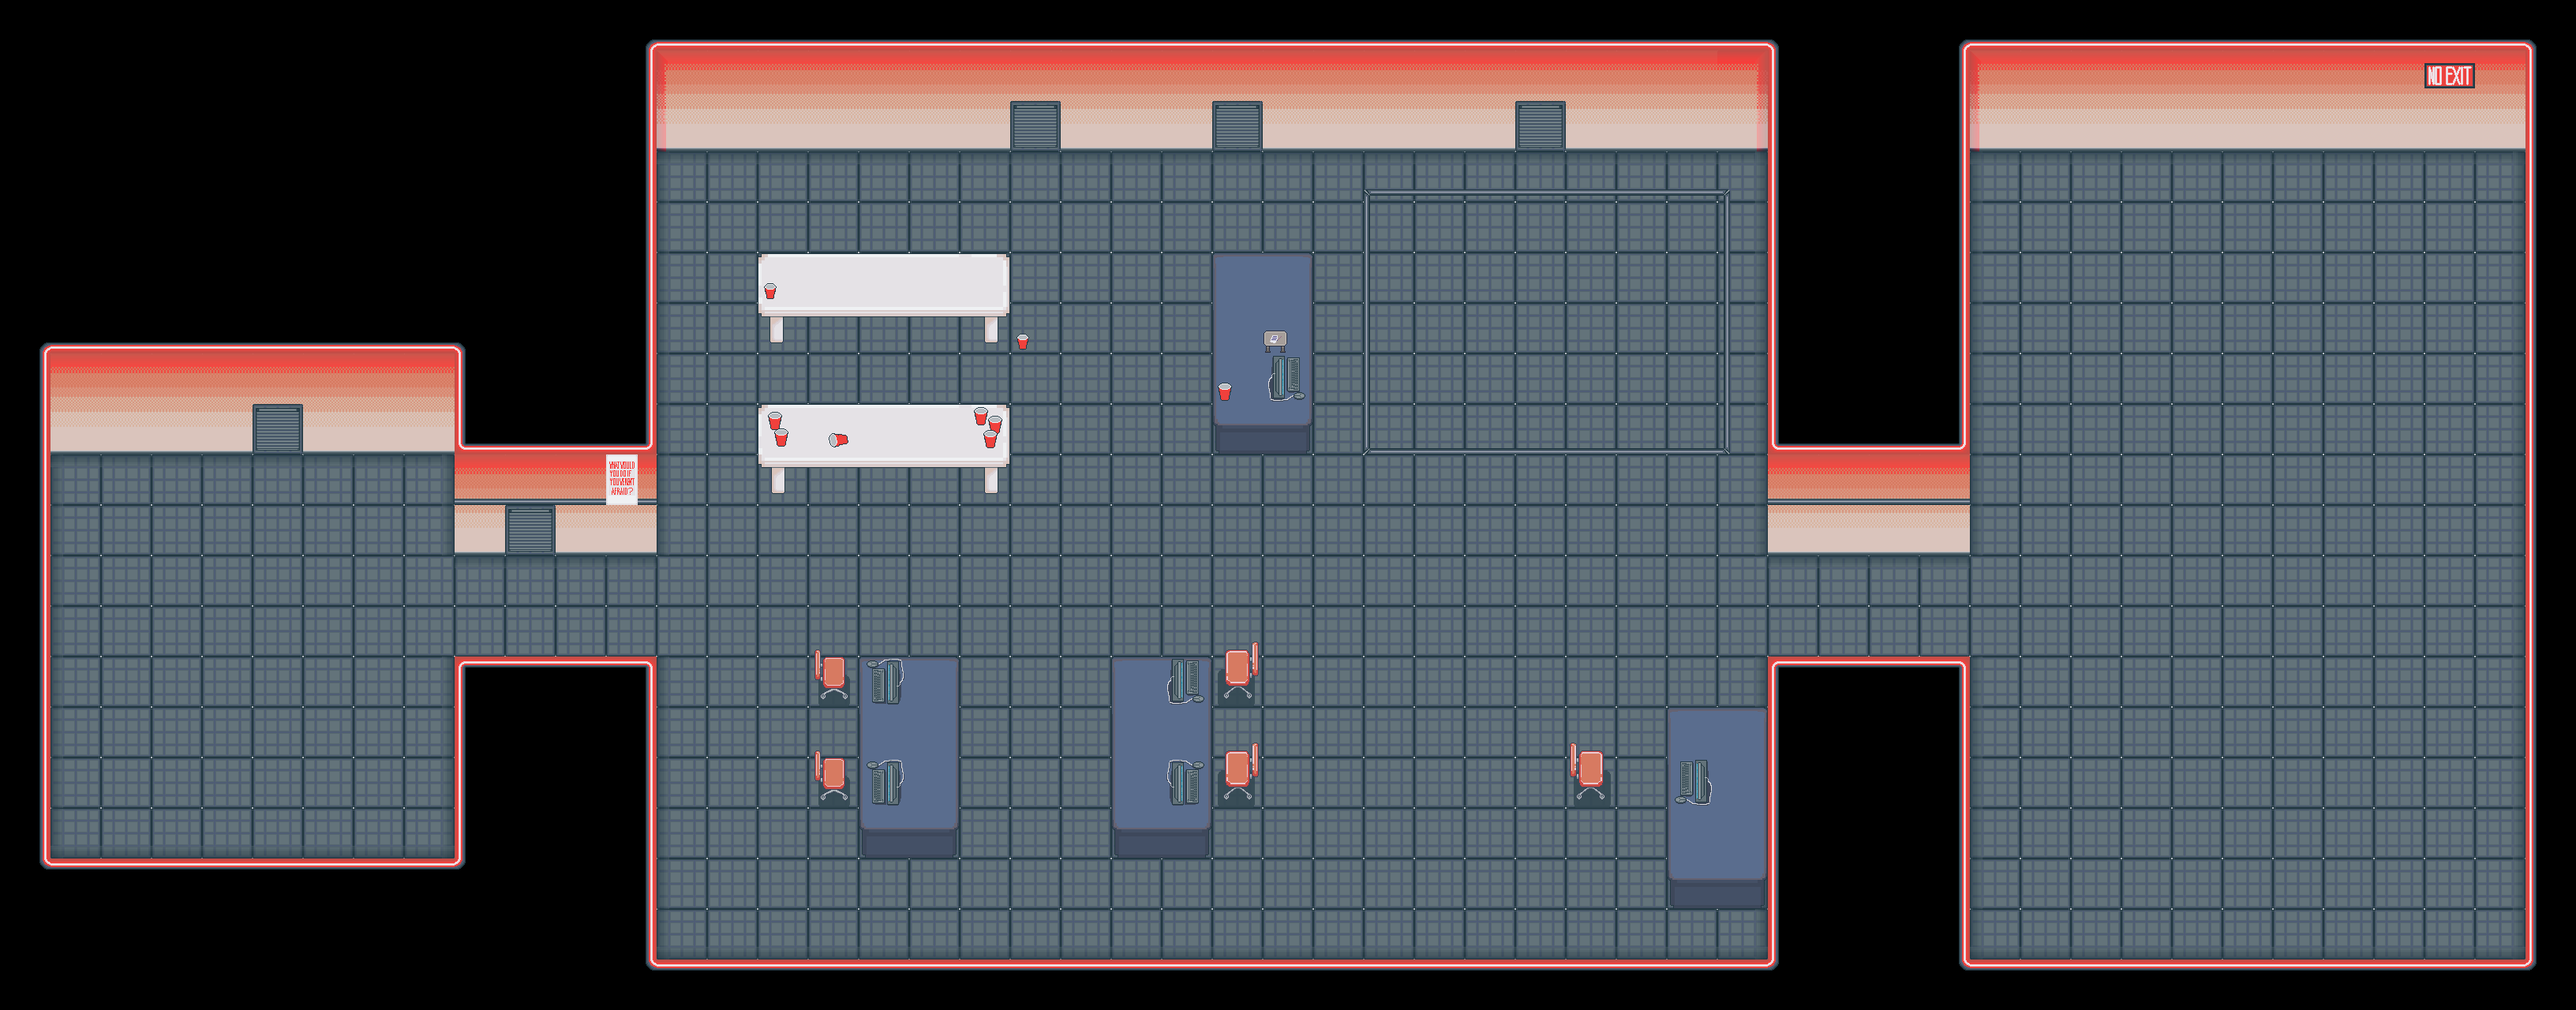
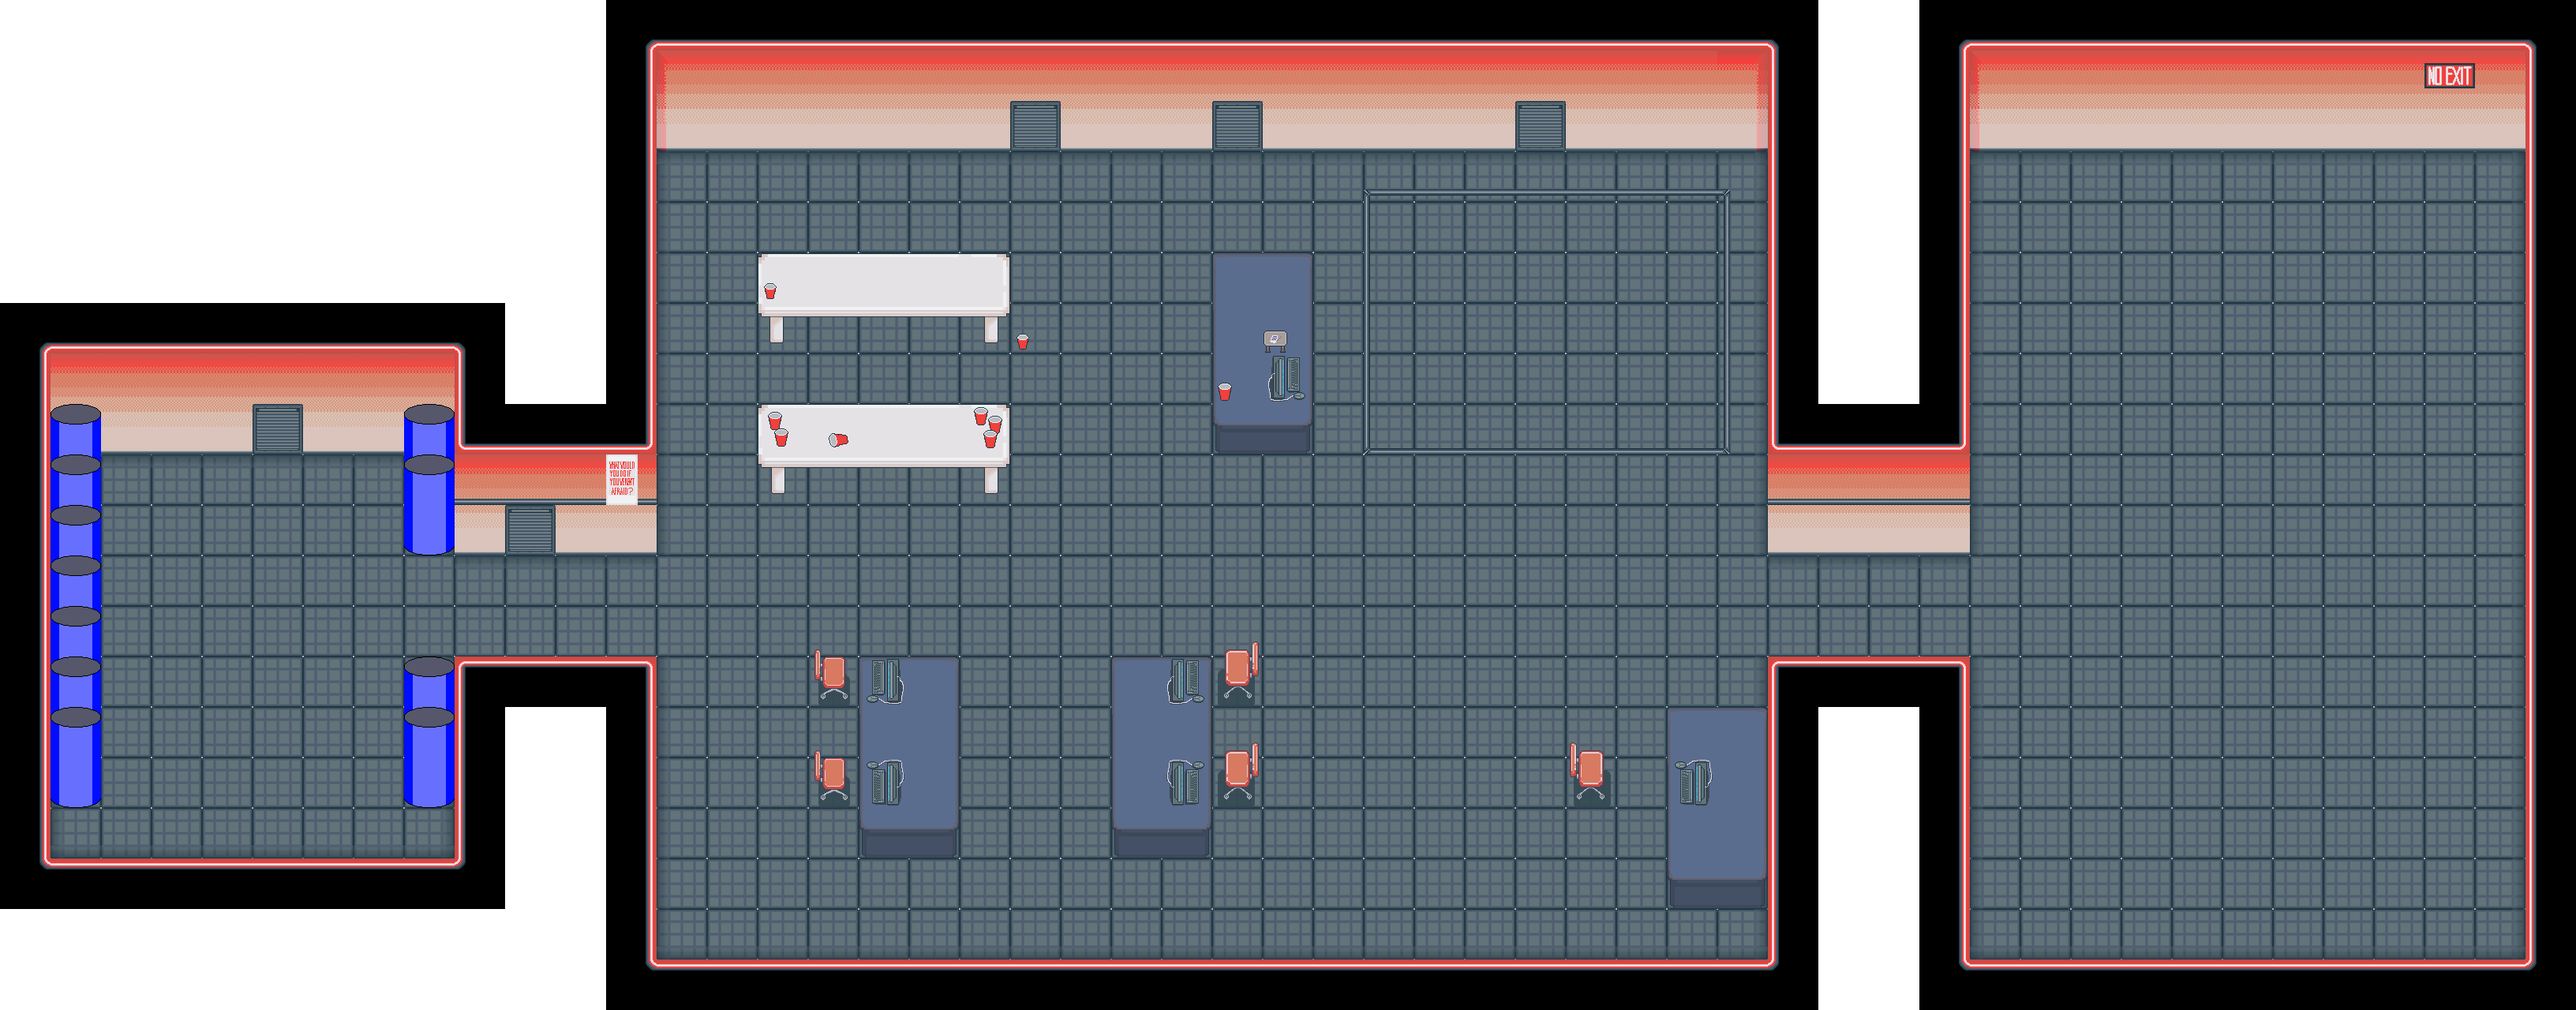
Add cryogenic vat assests to level 1

diff --git a/assets/map/atticusWalls.tsx b/assets/map/atticusWalls.tsx
@@ -1,133 +1,139 @@
 <?xml version="1.0" encoding="UTF-8"?>
-<tileset version="1.10" tiledversion="1.10.2" name="atticusWalls" tilewidth="464" tileheight="336" tilecount="43" columns="0">
+<tileset version="1.10" tiledversion="1.11.2" name="atticusWalls" tilewidth="464" tileheight="336" tilecount="45" columns="0">
  <grid orientation="orthogonal" width="1" height="1"/>
  <tile id="0">
-  <image width="64" height="64" source="../images/mapTiles/bttm L crnr.png"/>
+  <image source="../images/mapTiles/bttm L crnr.png" width="64" height="64"/>
  </tile>
  <tile id="1">
-  <image width="64" height="64" source="../images/mapTiles/bttm middle.png"/>
+  <image source="../images/mapTiles/bttm middle.png" width="64" height="64"/>
  </tile>
  <tile id="2">
-  <image width="64" height="64" source="../images/mapTiles/bttm R crnr.png"/>
+  <image source="../images/mapTiles/bttm R crnr.png" width="64" height="64"/>
  </tile>
  <tile id="3">
-  <image width="64" height="128" source="../images/mapTiles/l crnr wall piece.png"/>
+  <image source="../images/mapTiles/l crnr wall piece.png" width="64" height="128"/>
  </tile>
  <tile id="4">
-  <image width="64" height="64" source="../images/mapTiles/L vertical.png"/>
+  <image source="../images/mapTiles/L vertical.png" width="64" height="64"/>
  </tile>
  <tile id="5">
-  <image width="64" height="64" source="../images/mapTiles/mid uppr.png"/>
+  <image source="../images/mapTiles/mid uppr.png" width="64" height="64"/>
  </tile>
  <tile id="6">
-  <image width="64" height="64" source="../images/mapTiles/middle, default piece.png"/>
+  <image source="../images/mapTiles/middle, default piece.png" width="64" height="64"/>
  </tile>
  <tile id="7">
-  <image width="64" height="128" source="../images/mapTiles/plain wall section.png"/>
+  <image source="../images/mapTiles/plain wall section.png" width="64" height="128"/>
  </tile>
  <tile id="8">
-  <image width="64" height="128" source="../images/mapTiles/r crnr wall piece.png"/>
+  <image source="../images/mapTiles/r crnr wall piece.png" width="64" height="128"/>
  </tile>
  <tile id="9">
-  <image width="64" height="64" source="../images/mapTiles/R vertical.png"/>
+  <image source="../images/mapTiles/R vertical.png" width="64" height="64"/>
  </tile>
  <tile id="10">
-  <image width="64" height="64" source="../images/mapTiles/uppr L crnr.png"/>
+  <image source="../images/mapTiles/uppr L crnr.png" width="64" height="64"/>
  </tile>
  <tile id="11">
-  <image width="64" height="64" source="../images/mapTiles/uppr R crnr.png"/>
+  <image source="../images/mapTiles/uppr R crnr.png" width="64" height="64"/>
  </tile>
  <tile id="12">
-  <image width="64" height="64" source="../images/mapTiles/vent in flr.png"/>
+  <image source="../images/mapTiles/vent in flr.png" width="64" height="64"/>
  </tile>
  <tile id="13">
-  <image width="128" height="256" source="../images/objectTiles/empty computer desk.png"/>
+  <image source="../images/objectTiles/empty computer desk.png" width="128" height="256"/>
  </tile>
  <tile id="14">
-  <image width="64" height="84" source="../images/objectTiles/lg office chair.png"/>
+  <image source="../images/objectTiles/lg office chair.png" width="64" height="84"/>
  </tile>
  <tile id="15">
-  <image width="32" height="32" source="../images/objectTiles/lg solo cup.png"/>
+  <image source="../images/objectTiles/lg solo cup.png" width="32" height="32"/>
  </tile>
  <tile id="16" type="Computer">
-  <image width="64" height="64" source="../images/objectTiles/Lh computer facing L.png"/>
+  <image source="../images/objectTiles/Lh computer facing L.png" width="64" height="64"/>
  </tile>
  <tile id="17" type="Computer">
-  <image width="64" height="64" source="../images/objectTiles/Lh computer facing R.png"/>
+  <image source="../images/objectTiles/Lh computer facing R.png" width="64" height="64"/>
  </tile>
  <tile id="18" type="ExitDoor">
-  <image width="64" height="64" source="../images/objectTiles/no exit sign.png"/>
+  <image source="../images/objectTiles/no exit sign.png" width="64" height="64"/>
  </tile>
  <tile id="19">
-  <image width="320" height="127" source="../images/objectTiles/plain yt tbl.png"/>
+  <image source="../images/objectTiles/plain yt tbl.png" width="320" height="127"/>
  </tile>
  <tile id="20" type="Computer">
-  <image width="64" height="64" source="../images/objectTiles/Rh computer facing L.png"/>
+  <image source="../images/objectTiles/Rh computer facing L.png" width="64" height="64"/>
  </tile>
  <tile id="21" type="Computer">
-  <image width="64" height="64" source="../images/objectTiles/Rh computer facing R.png"/>
+  <image source="../images/objectTiles/Rh computer facing R.png" width="64" height="64"/>
  </tile>
  <tile id="22">
-  <image width="64" height="80" source="../images/objectTiles/sm office chair.png"/>
+  <image source="../images/objectTiles/sm office chair.png" width="64" height="80"/>
  </tile>
  <tile id="23">
-  <image width="32" height="32" source="../images/objectTiles/sm solo cup.png"/>
+  <image source="../images/objectTiles/sm solo cup.png" width="32" height="32"/>
  </tile>
  <tile id="24">
-  <image width="64" height="64" source="../images/objectTiles/wwyd poster.png"/>
+  <image source="../images/objectTiles/wwyd poster.png" width="64" height="64"/>
  </tile>
  <tile id="25">
-  <image width="320" height="128" source="../images/objectTiles/yt tbl with solo cups on it.png"/>
+  <image source="../images/objectTiles/yt tbl with solo cups on it.png" width="320" height="128"/>
  </tile>
  <tile id="26">
-  <image width="64" height="64" source="../images/mapTiles/neon out, bttm L crnr.png"/>
+  <image source="../images/mapTiles/neon out, bttm L crnr.png" width="64" height="64"/>
  </tile>
  <tile id="27">
-  <image width="64" height="64" source="../images/mapTiles/neon out, L vertical.png"/>
+  <image source="../images/mapTiles/neon out, L vertical.png" width="64" height="64"/>
  </tile>
  <tile id="28">
-  <image width="64" height="64" source="../images/mapTiles/neon out, main piece.png"/>
+  <image source="../images/mapTiles/neon out, main piece.png" width="64" height="64"/>
  </tile>
  <tile id="29">
-  <image width="64" height="64" source="../images/mapTiles/neon out, R crnr.png"/>
+  <image source="../images/mapTiles/neon out, R crnr.png" width="64" height="64"/>
  </tile>
  <tile id="30">
-  <image width="64" height="64" source="../images/mapTiles/neon out, R vertical.png"/>
+  <image source="../images/mapTiles/neon out, R vertical.png" width="64" height="64"/>
  </tile>
  <tile id="31">
-  <image width="64" height="64" source="../images/mapTiles/neon, L uppr crnr.png"/>
+  <image source="../images/mapTiles/neon, L uppr crnr.png" width="64" height="64"/>
  </tile>
  <tile id="32">
-  <image width="64" height="64" source="../images/mapTiles/neon, R uppr crnrl.png"/>
+  <image source="../images/mapTiles/neon, R uppr crnrl.png" width="64" height="64"/>
  </tile>
  <tile id="33">
-  <image width="16" height="16" source="../images/dance flr trim/bttm l crnr dance trim.png"/>
+  <image source="../images/dance flr trim/bttm l crnr dance trim.png" width="16" height="16"/>
  </tile>
  <tile id="34">
-  <image width="16" height="16" source="../images/dance flr trim/bttm r crnr dance trim.png"/>
+  <image source="../images/dance flr trim/bttm r crnr dance trim.png" width="16" height="16"/>
  </tile>
  <tile id="35">
-  <image width="64" height="16" source="../images/dance flr trim/mid horizontal bttm dance trim.png"/>
+  <image source="../images/dance flr trim/mid horizontal bttm dance trim.png" width="64" height="16"/>
  </tile>
  <tile id="36">
-  <image width="64" height="16" source="../images/dance flr trim/mid horizontal top dance trim.png"/>
+  <image source="../images/dance flr trim/mid horizontal top dance trim.png" width="64" height="16"/>
  </tile>
  <tile id="37">
-  <image width="16" height="64" source="../images/dance flr trim/mid vertical l dance trim.png"/>
+  <image source="../images/dance flr trim/mid vertical l dance trim.png" width="16" height="64"/>
  </tile>
  <tile id="38">
-  <image width="16" height="64" source="../images/dance flr trim/mid vertical r dance trim.png"/>
+  <image source="../images/dance flr trim/mid vertical r dance trim.png" width="16" height="64"/>
  </tile>
  <tile id="39">
-  <image width="16" height="16" source="../images/dance flr trim/uppr l crnr dance trim.png"/>
+  <image source="../images/dance flr trim/uppr l crnr dance trim.png" width="16" height="16"/>
  </tile>
  <tile id="40">
-  <image width="16" height="16" source="../images/dance flr trim/uppr r crnr dance trim.png"/>
+  <image source="../images/dance flr trim/uppr r crnr dance trim.png" width="16" height="16"/>
  </tile>
  <tile id="41" type="DanceFloor">
-  <image width="464" height="336" source="../images/dance flr trim/dance flr trim (one piece).png"/>
+  <image source="../images/dance flr trim/dance flr trim (one piece).png" width="464" height="336"/>
  </tile>
  <tile id="43" type="Npc">
-  <image width="80" height="64" source="../images/roomba.png"/>
+  <image source="../images/roomba.png" width="64" height="64"/>
+ </tile>
+ <tile id="44">
+  <image source="../images/emptyVat.png" width="64" height="128"/>
+ </tile>
+ <tile id="45">
+  <image source="../images/fullVat.png" width="64" height="128"/>
  </tile>
 </tileset>
